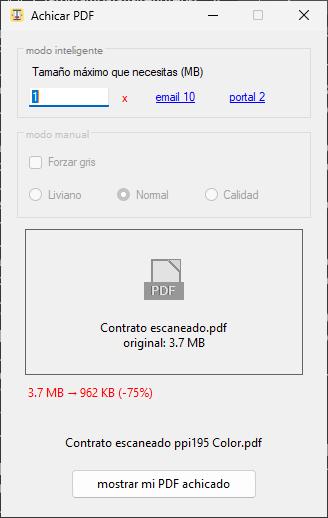
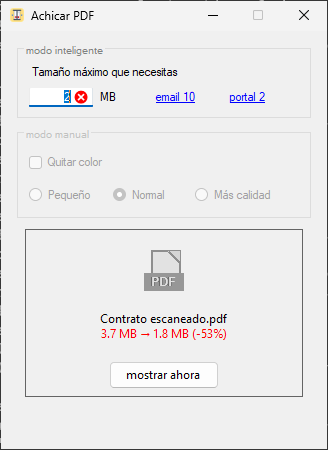
README: capturas y textos del diseño nuevo, y el asistente de Ghostscript

diff --git a/README.md b/README.md
@@ -4,8 +4,8 @@ Achicar PDF es una app simple para Windows que reduce PDFs escaneados usando
 Ghostscript. Está pensada para tirar un PDF, decir cuánto puede pesar como
 máximo y guardar el resultado en la misma carpeta del original.
 
-<img src="assets/achicar-pdf-screenshot.png" alt="Achicar PDF listo para recibir un PDF, con tamaño máximo de 2 MB" width="300">
-<img src="assets/achicar-pdf-resultado.png" alt="Achicar PDF después de achicar un escaneo de 3,7 MB a 962 KB" width="300">
+<img src="assets/achicar-pdf-screenshot.png" alt="Achicar PDF listo para recibir un PDF, con tamaño máximo de 10 MB" width="300">
+<img src="assets/achicar-pdf-resultado.png" alt="Achicar PDF después de achicar un escaneo de 3,7 MB a 1,8 MB, con el botón mostrar ahora" width="300">
 
 ## Descargar
 
@@ -23,10 +23,13 @@ está firmado, Windows puede mostrar "Windows protegió tu PC": toca
 1. Abre `Achicar PDF`.
 2. Si Ghostscript no está instalado (o tienes una versión vieja con fallas de
    seguridad), la app descarga el instalador oficial de Artifex, comprueba su
-   firma digital y lo instala. Windows pide permiso una sola vez.
-3. Escribe el tamaño máximo que necesitas en MB, o usa los atajos `email 10` y
-   `portal 2`. La app recuerda el último tamaño.
+   firma digital y lo abre: Windows pide permiso y después se avanza con
+   `Siguiente` hasta el final. Artifex no permite instalarlo en silencio.
+3. Escribe el tamaño máximo que necesitas, en MB enteros, o usa los atajos
+   `email 10` y `portal 2`. La app recuerda el último tamaño.
 4. Tira uno o varios PDF (o una carpeta) al recuadro, o haz clic para buscar uno.
+5. El recuadro muestra en rojo cuánto se ahorró, y `mostrar ahora` abre la
+   carpeta con el PDF achicado seleccionado.
 
 También puedes arrastrar PDFs sobre el ícono del `.exe` o usar
 `Enviar a → Achicar PDF` en el menú del botón derecho del Explorador: la app
@@ -40,8 +43,8 @@ deja escribir). El nombre indica el PPI usado y si quedó en Color o en Gris.
 - **Inteligente** (con tamaño máximo): primero prueba sin bajar la resolución; si
   no entra, busca el PPI más alto que entra, entre 50 y 300. Si ni a 50 PPI en
   color entra, prueba en gris.
-- **Manual** (sin tamaño máximo): `Liviano` (75 PPI), `Normal` (100 PPI) o
-  `Calidad` (150 PPI), con opción de forzar gris.
+- **Manual** (sin tamaño máximo): `Pequeño` (75 PPI), `Normal` (100 PPI) o
+  `Más calidad` (150 PPI), con la opción `Quitar color`.
 
 Si el resultado pesa más que el original, no guarda nada. Si el PDF tiene firma
 digital, avisa antes, porque al achicarlo la firma deja de ser válida.
